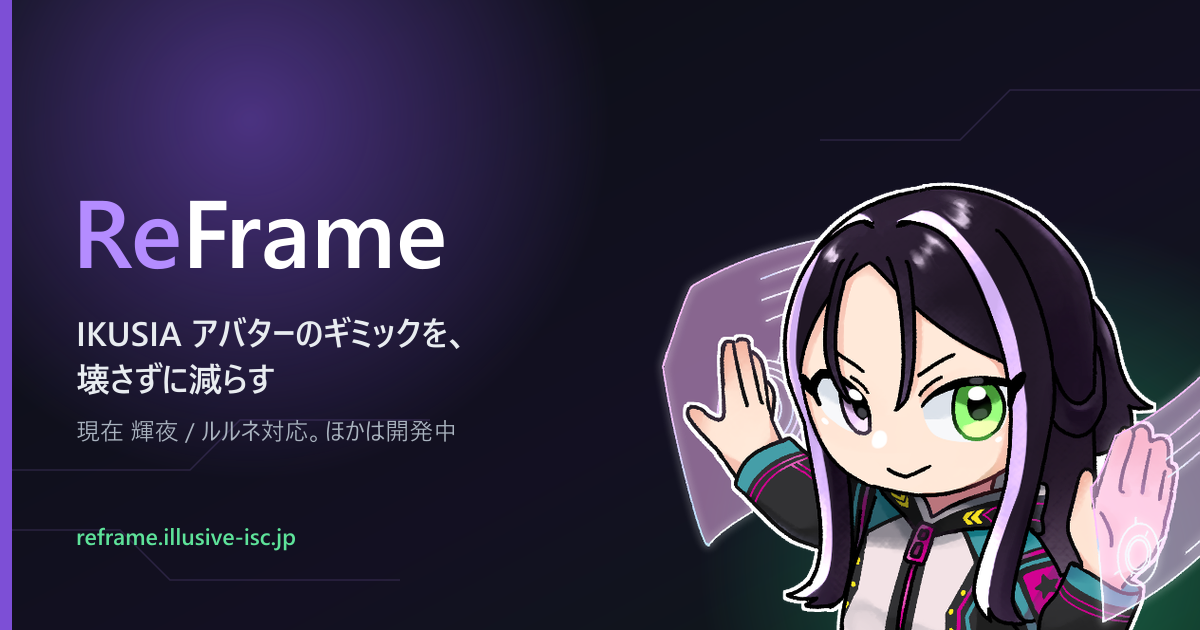
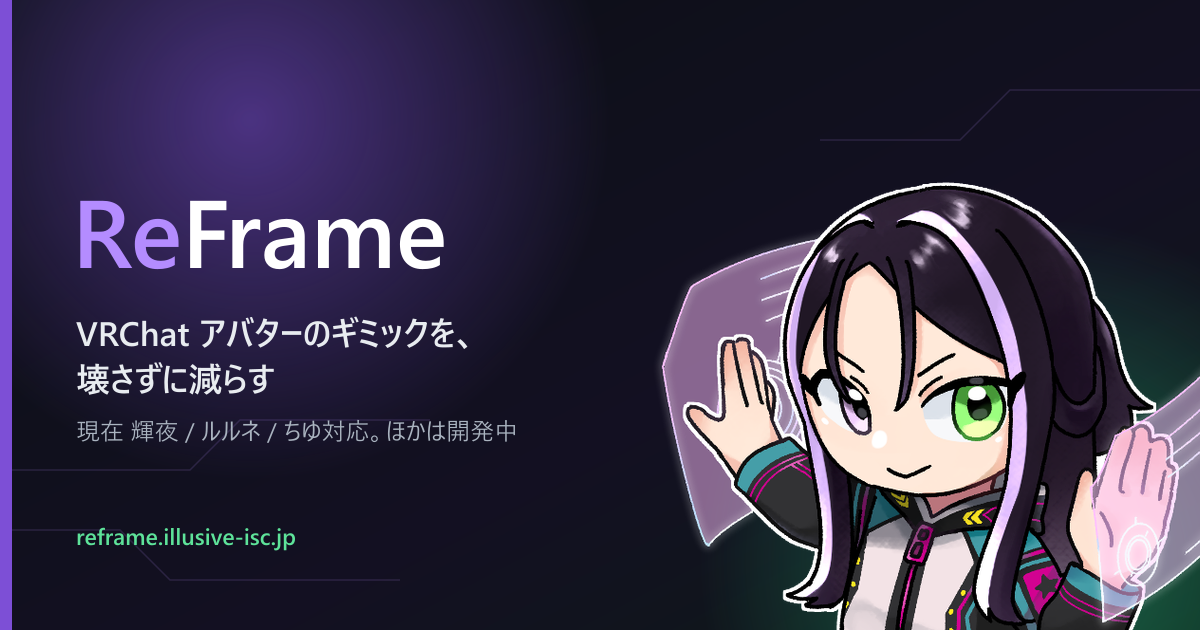
ちゆ (ReFrame for Chiyu) を対応アバターに追加、説明の IKUSIA を VRChat に

Changed region(s): [[0.0617, 0.4825, 0.4008, 0.573], [0.2158, 0.6635, 0.4317, 0.7238]]

diff --git a/src/lib/site.ts b/src/lib/site.ts
@@ -6,11 +6,11 @@ const basePath = '';
 
 export const site = {
 	name: 'ReFrame',
-	tagline: 'IKUSIA アバターのギミックを、壊さずに減らす',
+	tagline: 'VRChat アバターのギミックを、壊さずに減らす',
 	/** 共有カードの画像。作り直したら v を上げる (X / Facebook は画像 URL 単位でキャッシュする) */
-	ogImage: '/og-image.png?v=2',
+	ogImage: '/og-image.png?v=3',
 	description:
-		'ReFrame は VRChat アバターの衣装・ギミック・エモートのうち使わないものを、元のプレハブを壊さずにビルド時だけ取り除く NDMF 拡張です。同期パラメーターの節約と Quest 簡易対応 (マテリアルの焼き込み・揺れ物の間引き) に対応します。現在は輝夜 / ルルネに対応、ほかのアバターは開発中です。',
+		'ReFrame は VRChat アバターの衣装・ギミック・エモートのうち使わないものを、元のプレハブを壊さずにビルド時だけ取り除く NDMF 拡張です。同期パラメーターの節約と Quest 簡易対応 (マテリアルの焼き込み・揺れ物の間引き) に対応します。現在は輝夜 / ルルネ / ちゆに対応、ほかのアバターは開発中です。',
 	origin,
 	basePath,
 	/** 公開時の絶対 URL (canonical / OGP 用) */
@@ -44,6 +44,13 @@ export const site = {
 			repo: 'illusive-isc/ReFrameForRurune',
 			summary: 'ルルネ用のパッケージ。消す対象 (衣装・ギミック類) 及び Quest 対応用の差分設定。',
 			avatar: 'rurune'
+		},
+		{
+			id: 'jp.illusive-isc.reframe-chiyu',
+			name: 'ReFrame for Chiyu',
+			repo: 'illusive-isc/ReFrameForChiyu',
+			summary: 'ちゆ (plium) 用のパッケージ。消す対象 (衣装・髪・ギミック類) 及び Quest 対応用の差分設定。',
+			avatar: 'chiyu'
 		}
 	]
 };
@@ -67,7 +74,7 @@ export const pages = [
 		path: '/packages/',
 		title: 'パッケージ',
 		description:
-			'ReFrameCore / ReFrame for kaguya / ReFrame for rurune の最新版、配布 zip、SHA256、依存パッケージの一覧。',
+			'ReFrameCore / ReFrame for kaguya / ReFrame for rurune / ReFrame for Chiyu の最新版、配布 zip、SHA256、依存パッケージの一覧。',
 		priority: '0.7'
 	},
 	{

diff --git a/src/routes/guide/+page.svelte b/src/routes/guide/+page.svelte
@@ -19,7 +19,7 @@
 <h2>1. VCC に一覧を登録してパッケージを入れる</h2>
 <ol class="steps">
 	<li><Link href={vccAddRepoUrl}>VCC に一覧を追加</Link> を押すか、VCC の Settings → Packages → Add Repository に <code>{site.listingUrl}</code> を入れて追加します。</li>
-	<li>対象プロジェクトの Manage Packages で、使うアバターに合わせて <strong>ReFrame for kaguya</strong> または <strong>ReFrame for rurune</strong> を追加します。共通部分の <strong>ReFrameCore</strong> は依存として自動で入るので、別に選ぶ必要はありません。</li>
+	<li>対象プロジェクトの Manage Packages で、使うアバターに合わせて <strong>ReFrame for kaguya</strong> / <strong>ReFrame for rurune</strong> / <strong>ReFrame for Chiyu</strong> のどれかを追加します。共通部分の <strong>ReFrameCore</strong> は依存として自動で入るので、別に選ぶ必要はありません。</li>
 </ol>
 
 <h2>2. アバターに ReFrame を付ける</h2>

diff --git a/src/routes/changelog/+page.svelte b/src/routes/changelog/+page.svelte
@@ -16,6 +16,12 @@
 	</div>
 {/each}
 
+<h2>ReFrameCore 0.8.0 / for Chiyu 0.1.0</h2>
+<ul>
+	<li>ちゆ (plium) 用の ReFrame for Chiyu を追加しました。服・髪・表情・小物・ジャンプ／ダッシュ・AFK・エモート・ロコモーションを消せ、Quest 簡易対応版の初期設定も入っています。</li>
+	<li>ReFrameCore: 固定して消した服がアップロード後に表示されることがある問題 (Modular Avatar の Merge Animator を使う衣装) と、残す項目が 8 個埋まったメニューに入らない問題を直しました。kaguya / rurune では「足の固定」の並び位置が変わります。</li>
+</ul>
+
 <h2>ReFrameCore 0.1.0</h2>
 <ul>
 	<li>更新のお知らせから zip を直接入れ替える「更新する…」を無くしました。更新は「更新ページを開く」からの unitypackage か VCC で行います。</li>

diff --git a/src/routes/install/+page.svelte b/src/routes/install/+page.svelte
@@ -15,7 +15,8 @@
 	// (パッケージの中身の説明は /packages/ にある)。
 	const blurbs: Record<string, string> = {
 		'jp.illusive-isc.reframe-kaguya': '輝夜用のパッケージです。',
-		'jp.illusive-isc.reframe-rurune': 'ルルネ用のパッケージです。'
+		'jp.illusive-isc.reframe-rurune': 'ルルネ用のパッケージです。',
+		'jp.illusive-isc.reframe-chiyu': 'ちゆ (plium) 用のパッケージです。'
 	};
 	const avatars = $derived(
 		site.packages

diff --git a/README.md b/README.md
@@ -1,6 +1,6 @@
 # ReFrame
 
-IKUSIA アバターのギミックを、壊さずに減らす。
+VRChat アバターのギミックを、壊さずに減らす。
 
 <https://reframe.illusive-isc.jp/>
 
